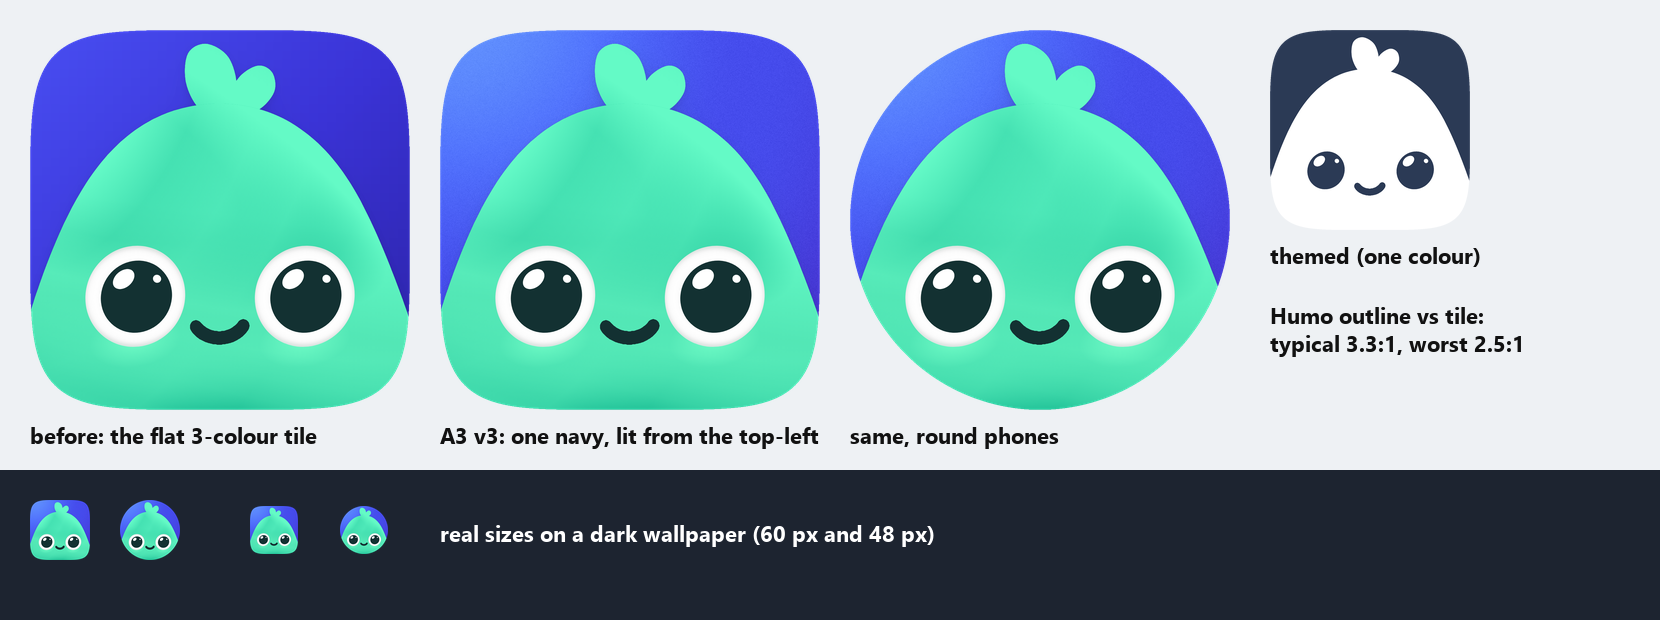
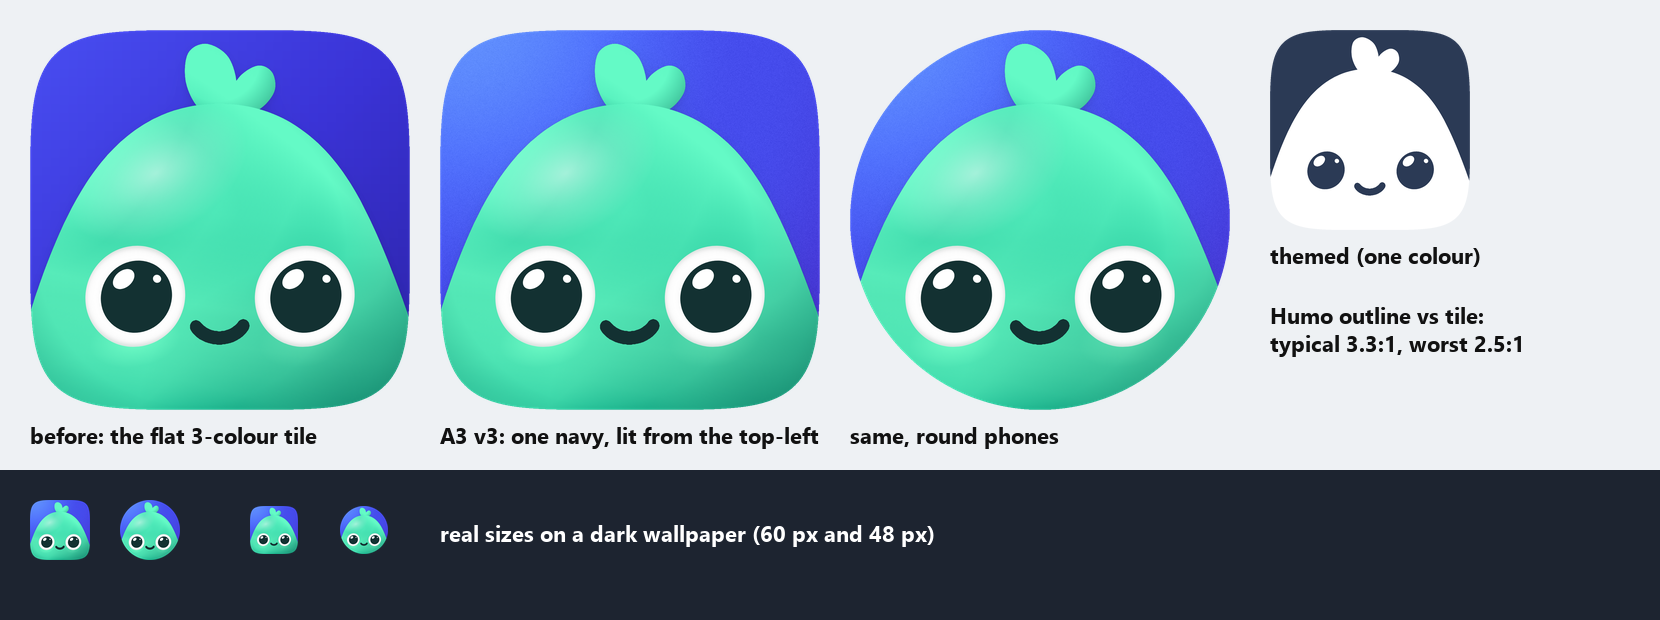
fix(app): launcher Humo gets clay volume, he read as one flat mint on the phone
Boss installed d0a46f8 on the A05s and scored it 2/10: the soft 2.5D shading spans a lightness range of 0.10 inside the visible window, the clay icon on Play 0.18. The render now adds a darker rim, a core shadow and one soft highlight (range 0.22); shape, sprout, eyes and tile are unchanged. Not yet on a phone.

diff --git a/scripts/art/build_launcher_icon_navy.py b/scripts/art/build_launcher_icon_navy.py
@@ -4,7 +4,9 @@
 Why a script and not hand-made files: the tile is a radial OKLCH light with grain (an XML gradient can only mix 3 sRGB stops
 in a straight line, which Boss called flat), and every density, the themed layer and the Play picture must come from one source.
 Humo is the approved drawing rendered 1:1 (right eye and its glow = copies of the left; pupils and smile in one soft
-ink #133132 instead of near-black); only the camera moves: he sits low and the
+ink #133132 instead of near-black); his body carries clay volume (a darker rim, a core shadow, one
+soft highlight: lightness range 0.22 in the visible window, because the soft 2.5D shading at 0.10 read as one flat
+mint on a real phone, Boss 2/10); only the camera moves: he sits low and the
 bottom edge of the visible square cuts him flat, so no legs show under any launcher mask.
 
 Run from the android repo:  python scripts/art/build_launcher_icon_navy.py [path to the 2048 px Humo render]
@@ -20,7 +22,7 @@ from PIL import Image, ImageDraw, ImageFilter, ImageFont
 
 ROOT = os.path.normpath(os.path.join(os.path.dirname(os.path.abspath(__file__)), "..", ".."))
 RES = os.path.join(ROOT, "app", "src", "main", "res")
-HUMO = sys.argv[1] if len(sys.argv) > 1 else "D:/Humopedia/docs/design/2026-11-12-app-icon/humo-real-soft-ink-2048.png"
+HUMO = sys.argv[1] if len(sys.argv) > 1 else "D:/Humopedia/docs/design/2026-11-12-app-icon/humo-real-clay-2048.png"
 Q = 4  # supersampling: the 108 dp canvas is drawn at 432 * Q px
 N = 432 * Q
 K, EYE_Y, CUT = 0.39, 274, 362  # Humo scale (canvas px per drawing unit), eye line and flat cut, on the 432 px canvas
